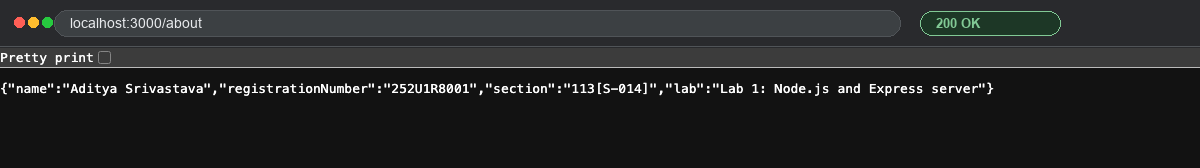
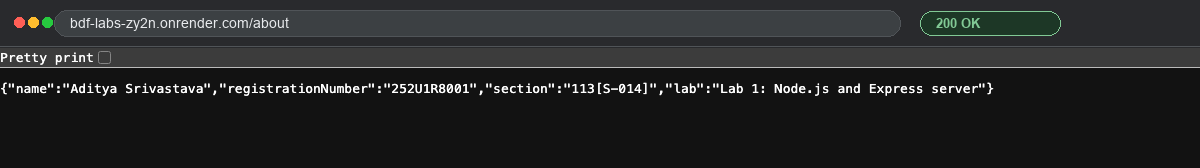
lab-01: add live Render URL and screenshots from the deployed service

Changed region(s): [[0.0617, 0.0893, 0.2467, 0.1786]]

diff --git a/lab-01/README.md b/lab-01/README.md
@@ -6,16 +6,21 @@ Faculty: Joel Prashanth D
 
 ## Live link
 
-_Deploying — paste the Render URL here once the service is live._
+**https://bdf-labs-zy2n.onrender.com** — deployed on Render (free plan).
 
-The repository root has a [`render.yaml`](../render.yaml) blueprint, so Render
-creates the service with no manual configuration: **New → Blueprint → pick this
-repository**. Note that the free plan sleeps when idle, so the first request
-after a quiet spell takes a few seconds to wake the service.
+| | |
+| --- | --- |
+| Welcome | <https://bdf-labs-zy2n.onrender.com/> |
+| About | <https://bdf-labs-zy2n.onrender.com/about> |
+| Time | <https://bdf-labs-zy2n.onrender.com/time> |
 
-Every endpoint below is also evidenced by the screenshots in
-[`screenshots/`](screenshots), captured against the server running locally on
-port 3000.
+The free plan sleeps when idle, so the **first request after a quiet spell takes
+up to a minute** to wake the service. Later requests are immediate.
+
+The screenshots in [`screenshots/`](screenshots) were taken against this
+deployed URL. The repository root also has a [`render.yaml`](../render.yaml)
+blueprint, so the service can be recreated from scratch with
+**New → Blueprint → pick this repository**.
 
 ## How to run
 
@@ -67,7 +72,7 @@ PORT=4000 npm start   # example: run on a different port
 
 ![An unknown path returns the JSON 404 message](screenshots/04-route-404.png)
 
-**Status code for every route (`curl -i`)**
+**Status code for every route (`curl -i` against the deployed service)**
 
 ![curl -i output showing 200, 200, 200 and 404](screenshots/05-status-codes.png)
 
@@ -124,7 +129,14 @@ the exact version of every one of them.
 | `GET /notfound` | `404 Not Found` | `application/json; charset=utf-8` |
 
 Verified with `curl -i` (screenshot 05) and by opening each route in the
-browser.
+browser, both locally and against the deployed service. On Render the protocol
+shows as `HTTP/2` rather than `HTTP/1.1`, because requests arrive through
+Render's TLS proxy; the status codes are the same.
+
+**Note on `PORT`.** Render assigns the port at runtime and the log shows the
+app starting on `10000`, not `3000`. That works because `server.js` reads
+`process.env.PORT` and only falls back to `3000`. A hardcoded port is the usual
+reason a first deploy fails.
 
 ## Viva questions
 

diff --git a/README.md b/README.md
@@ -8,7 +8,7 @@ instructions, endpoint table and screenshots for that lab.
 
 | Lab | Title | Folder | Live |
 | --- | --- | --- | --- |
-| 1 | Node.js and Express server | [`lab-01/`](lab-01) | _pending_ |
+| 1 | Node.js and Express server | [`lab-01/`](lab-01) | <https://bdf-labs-zy2n.onrender.com> |
 
 ## Deploying
 
